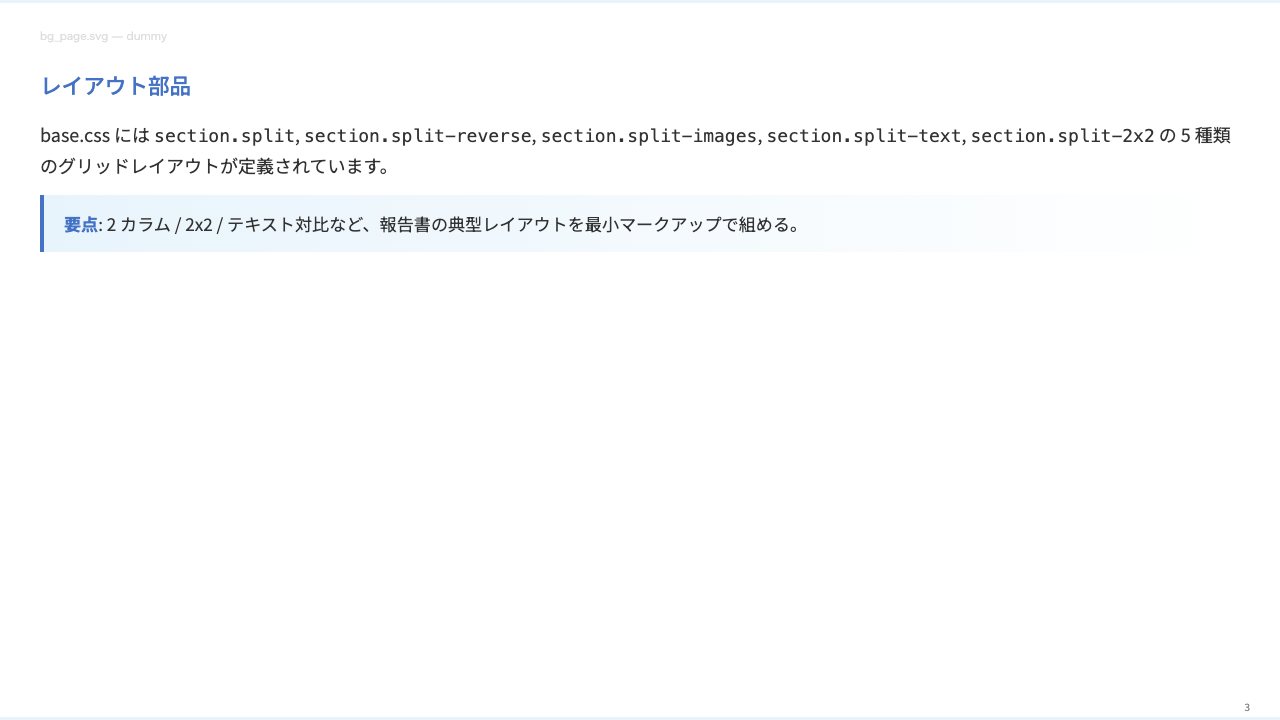
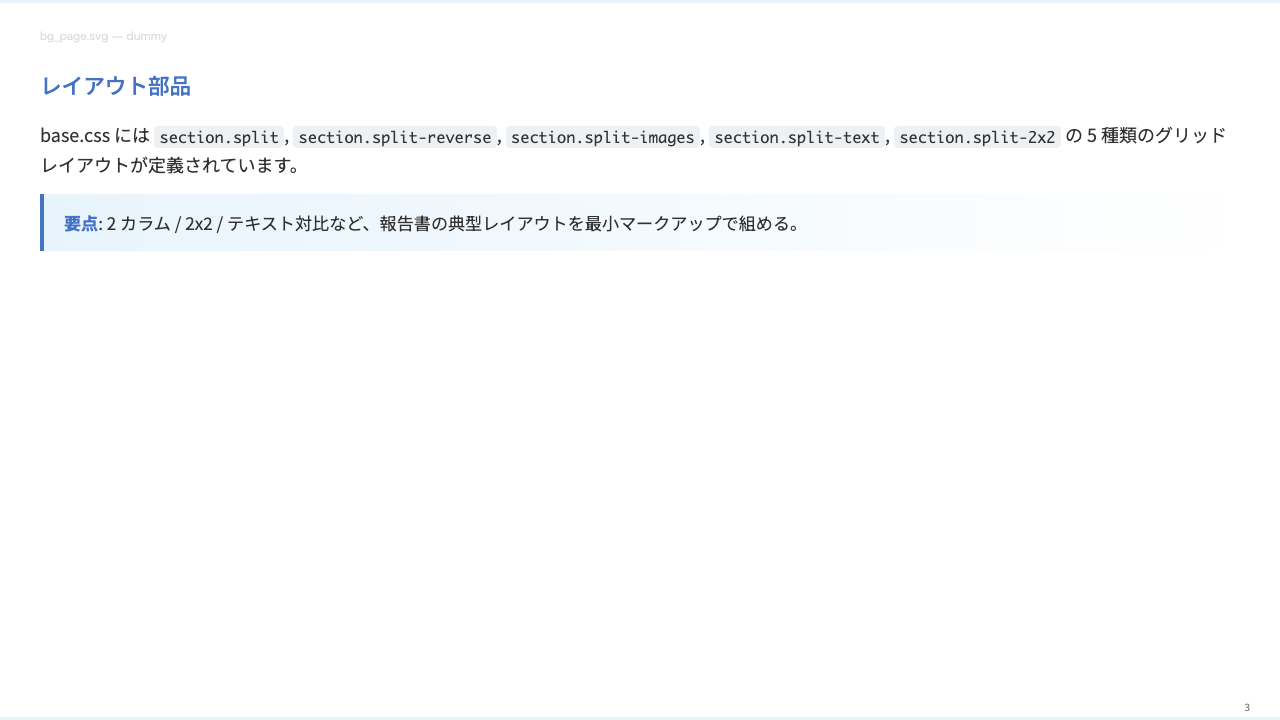
themes(base): fill missing element styles for business slides
base.css に未定義だった HTML 要素のスタイルを埋めて、業務スライドで普通使う
表現を完備する。subagent による 5 リポ調査 (marp-core, marpstyle, academic,
neobeam, marp-community-themes) の即入れ推奨セット。

- pre / inline code: コマンド名・カラム名・JSON 片の表示
- blockquote: 出典・脚注バー (summary-box とは色差で別用途)
- hr: セクション内の薄罫線
- @page + @media print 拡張: PDF エクスポート時に table・pre・summary-box・
  recommendation・box-* が裁ち切れる事故を防ぐ break-inside: avoid、
  見出しの孤立を防ぐ break-after: avoid
- mark: HTML <mark> を蛍光ペン風グラデで強調
- a: リンク色 + 下線 + offset

Changed region(s): [[0.0312, 0.1528, 0.9688, 0.2444], [0.0312, 0.3056, 0.375, 0.3361], [0.4062, 0.3056, 0.625, 0.3361]]

diff --git a/themes/base.css b/themes/base.css
@@ -104,6 +104,70 @@ strong {
 }
 
 /* ========================================
+   Inline & Block Elements
+   ======================================== */
+
+/* インラインコード（コマンド名・カラム名・JSON キー等） */
+section :not(pre) > code {
+  background: #eef1f4;
+  padding: 0.1em 0.35em;
+  border-radius: 4px;
+  font-size: 0.85em;
+  font-family: 'Consolas', 'Monaco', 'JetBrains Mono', 'Roboto Mono', monospace;
+}
+
+/* コードブロック */
+section pre {
+  background: #f6f8fa;
+  border: 1px solid #d0d7de;
+  border-radius: 6px;
+  padding: 0.8em 1em;
+  font-size: 0.7em;
+  line-height: 1.4;
+  overflow-x: auto;
+}
+
+section pre code {
+  background: none;
+  padding: 0;
+  font-size: inherit;
+  font-family: 'Consolas', 'Monaco', 'JetBrains Mono', 'Roboto Mono', monospace;
+}
+
+/* 引用 / 出典バー（summary-box とは別用途。「※注:」「※出典:」等） */
+section blockquote {
+  border-left: 4px solid #4472C4;
+  background: #f7f9fc;
+  color: #555555;
+  padding: 0.4em 0.8em;
+  margin: 1em 0;
+  font-size: 0.85em;
+}
+
+/* 水平線（薄罫線でセクション内区切り） */
+section hr {
+  border: 0;
+  border-top: 1px solid #d0d7de;
+  margin: 0.8em 0;
+  height: 0;
+}
+
+/* リンク */
+section a {
+  color: #4472C4;
+  text-decoration: underline;
+  text-underline-offset: 2px;
+  text-decoration-thickness: 1px;
+}
+
+/* 蛍光ペン風マーカー（HTML <mark> 要素で利用） */
+section mark {
+  background: linear-gradient(transparent 60%, #fff3a0 60%);
+  color: inherit;
+  padding: 0 0.1em;
+}
+
+/* ========================================
    Footnote
    ======================================== */
 .footnote {
@@ -731,9 +795,30 @@ img.border {
 /* ========================================
    PDF Export
    ======================================== */
+@page {
+  size: 1280px 720px;
+  margin: 0;
+}
+
 @media print {
   section {
     -webkit-print-color-adjust: exact;
     print-color-adjust: exact;
+    break-after: page;
+    break-inside: avoid;
+  }
+  /* 「裁ち切れ事故」を防ぐ: 表・コードブロック・囲みは中で改ページしない */
+  table,
+  pre,
+  .summary-box,
+  .recommendation,
+  .box-info,
+  .box-warning,
+  .box-danger {
+    break-inside: avoid;
+  }
+  /* 見出しの直後に改ページが入って「孤立見出し」になるのを防ぐ */
+  h1, h2, h3 {
+    break-after: avoid;
   }
 }
